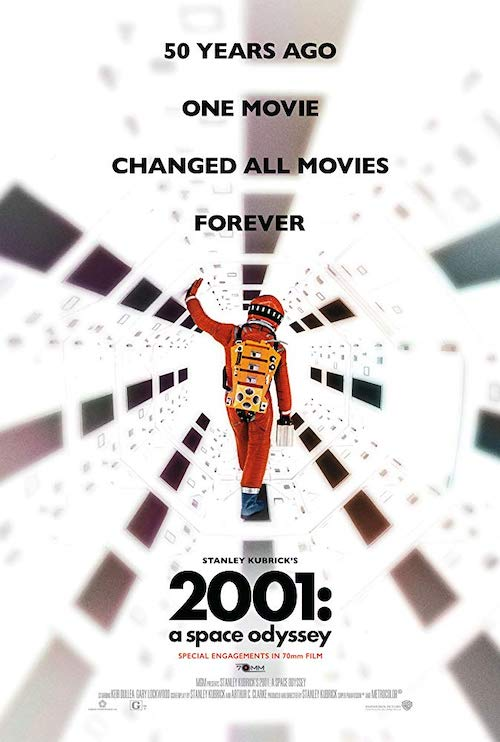
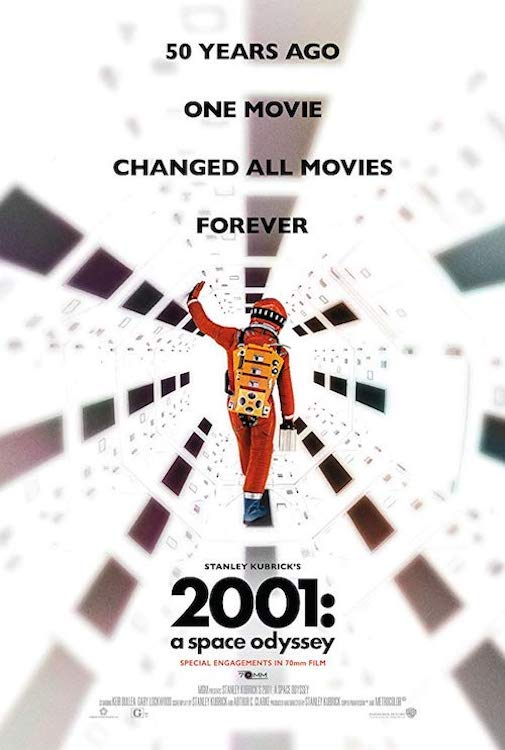
Fixed image sizes and the width of the container

diff --git a/index.html b/index.html
@@ -35,10 +35,10 @@
 
 	    <div class="main">
 
-	      <div class="container">
+	      <div class="container" style="width:100%">
 
-	        <div class="col-md-6"> 
-	            <div class="thumbnail" v-for="(movie,index) in movies">
+	        <div class="col-md-6" v-for="(movie,index) in movies">
+	            <div class="thumbnail">
 
 						<img class="poster" :src="movie.posters[movie.posterindex]" @click="posterClick(index)"/>
 
